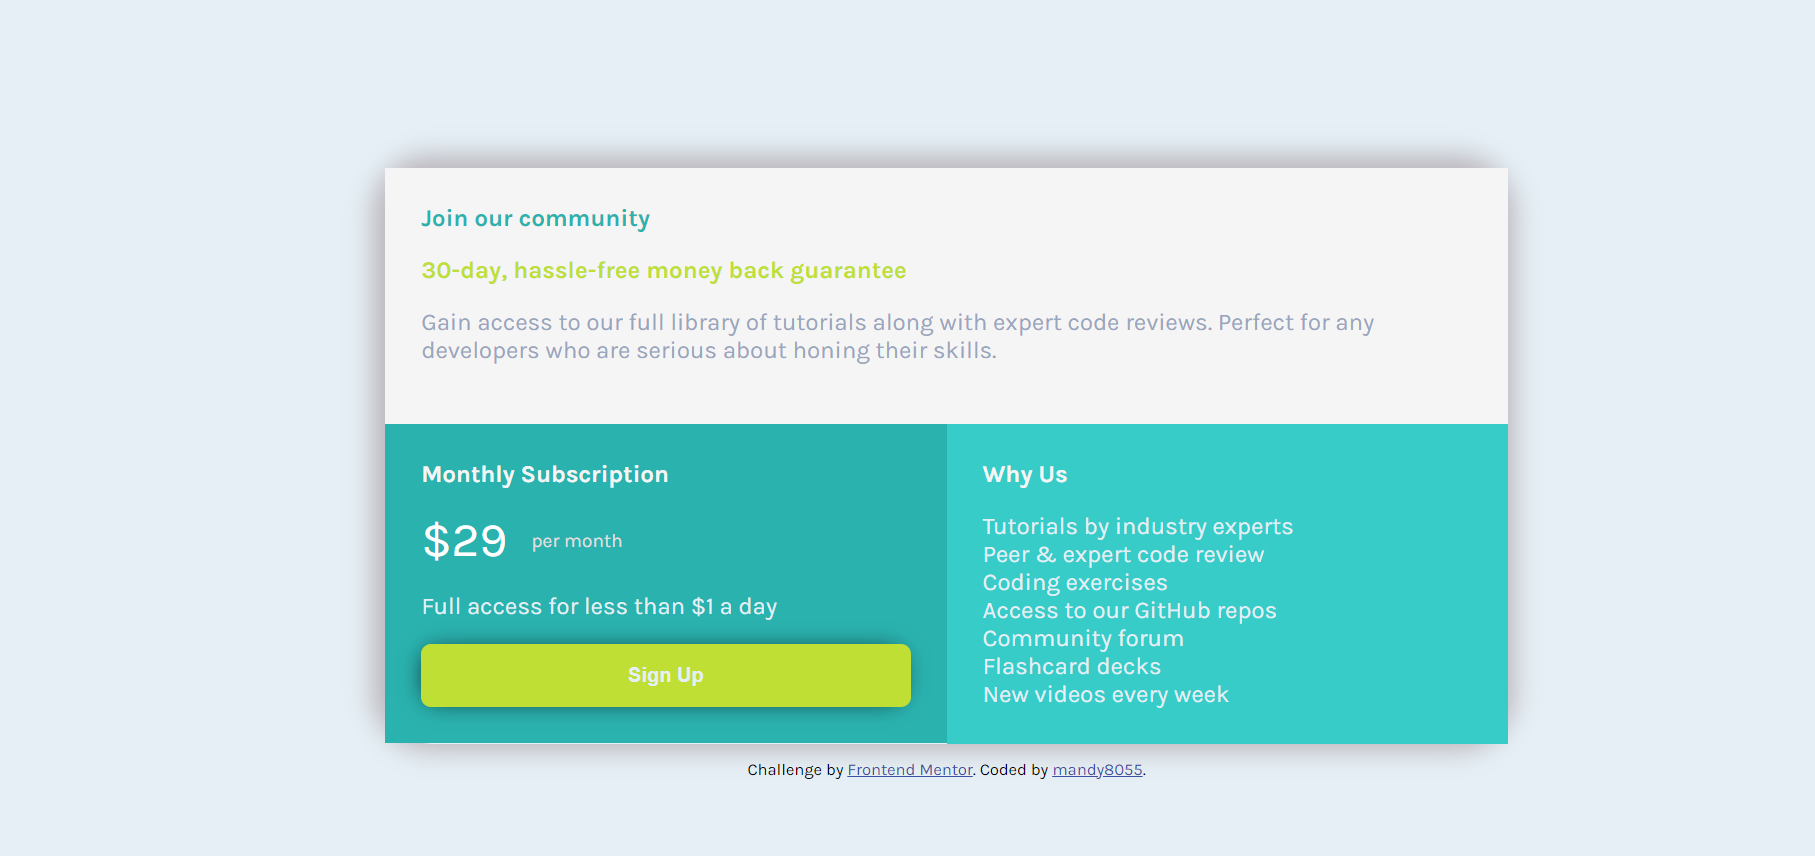
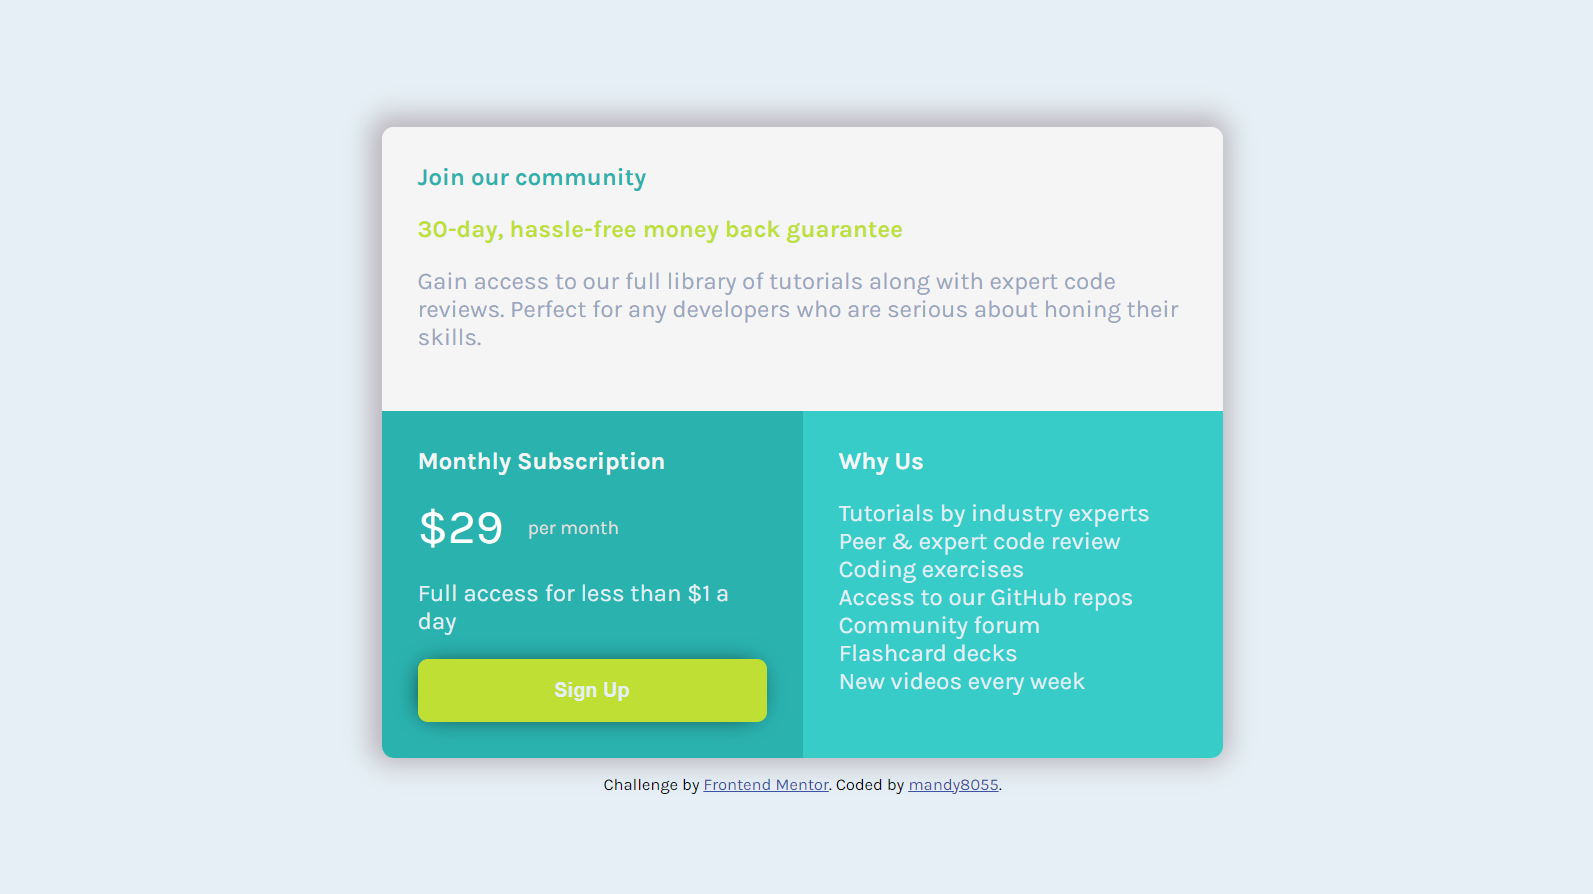
[Challenge-2] Fixed some css bugs

Changed region(s): [[0.1846, 0.1215, 0.8613, 0.9112]]

diff --git a/single-price-grid-component/public/output.css b/single-price-grid-component/public/output.css
@@ -1,1 +1,1 @@
-@import"https://fonts.googleapis.com/css2?family=Karla:wght@400;700&display=swap";*,*::before,*::after{box-sizing:border-box}body{background-color:#e5eff5;font-family:"Karla",sans-serif;height:100vh;display:flex;justify-content:center;align-items:center;flex-direction:column}@media(max-width: 768px){body{height:auto}}.card{display:grid;justify-content:center;align-content:center;grid-template-columns:1fr 1fr;width:60%;border-radius:2em;-webkit-box-shadow:-2px -2px 17px 6px #bab4ba;-moz-box-shadow:-2px -2px 17px 6px #bab4ba;box-shadow:-2px -2px 17px 6px #bab4ba}@media(max-width: 768px){.card{grid-template-columns:1fr;width:80%}}.heading{color:#f5f5f5;font-weight:700;padding-bottom:1em}.pricing{display:flex;gap:1em}#grid-1{grid-column:1/span 2;background-color:#f5f5f5;padding:1.5em}@media(max-width: 768px){#grid-1{grid-column:1}}#grid-1 .heading{color:#2ab2af;padding-bottom:1em;font-weight:700}#grid-1 p{color:#98a6bd}#grid-1 .sub-heading{color:#c0df34;font-weight:700}#grid-2{background-color:#2ab2af;padding:1.5em;align-self:center}#grid-2 span:first-of-type{color:#fff;font-size:2rem}#grid-2 span:nth-of-type(2){color:#e1dfdf;font-size:.8rem;align-self:center}#grid-2 p{color:#e5eff5}button{padding:1em;width:100%;border-radius:.5em;border:none;cursor:pointer;color:#e5eff5;font-weight:bold;background-color:#c0df34;-webkit-box-shadow:-2px 0px 17px -6px #000;-moz-box-shadow:-2px 0px 17px -6px #000;box-shadow:-2px 0px 17px -6px #000}#grid-3{background-color:#38ccc9;padding:1.5em}ul{margin:0;padding:0;list-style:none;color:#e5eff5}/*# sourceMappingURL=output.css.map */
+@import"https://fonts.googleapis.com/css2?family=Karla:wght@400;700&display=swap";*,*::before,*::after{box-sizing:border-box}body{background-color:#e5eff5;font-family:"Karla",sans-serif;height:100vh;display:flex;justify-content:center;align-items:center;flex-direction:column}@media(max-width: 768px){body{height:auto}}.card{display:grid;width:45%;border-radius:.5em;grid-template-columns:1fr 1fr;-webkit-box-shadow:-2px -2px 17px 6px #bab4ba;-moz-box-shadow:-2px -2px 17px 6px #bab4ba;box-shadow:-2px -2px 17px 6px #bab4ba}@media(max-width: 768px){.card{grid-template-columns:1fr;width:80%}}.heading{color:#f5f5f5;font-weight:700;padding-bottom:1em}.pricing{display:flex;gap:1em}#grid-1{grid-column:1/span 2;background-color:#f5f5f5;padding:1.5em;border-radius:.5em .5em 0 0}@media(max-width: 768px){#grid-1{grid-column:1}}#grid-1 .heading{color:#2ab2af;padding-bottom:1em;font-weight:700}#grid-1 p{color:#98a6bd}#grid-1 .sub-heading{color:#c0df34;font-weight:700}#grid-2{background-color:#2ab2af;padding:1.5em;border-radius:0 0 0 .5em}#grid-3{border-radius:0 0 .5em 0}#grid-2 span:first-of-type{color:#fff;font-size:2rem}#grid-2 span:nth-of-type(2){color:#e1dfdf;font-size:.8rem;align-self:center}#grid-2 p{color:#e5eff5}button{padding:1em;width:100%;border-radius:.5em;border:none;cursor:pointer;color:#e5eff5;font-weight:bold;background-color:#c0df34;-webkit-box-shadow:-2px 0px 17px -6px #000;-moz-box-shadow:-2px 0px 17px -6px #000;box-shadow:-2px 0px 17px -6px #000}#grid-3{background-color:#38ccc9;padding:1.5em}ul{margin:0;padding:0;list-style:none;color:#e5eff5}/*# sourceMappingURL=output.css.map */

diff --git a/single-price-grid-component/scss/styles.scss b/single-price-grid-component/scss/styles.scss
@@ -23,11 +23,9 @@ body {
 
 .card {
   display: grid;
-  justify-content: center;
-  align-content: center;
+  width: 45%;
+  border-radius: 0.5em;
   grid-template-columns: 1fr 1fr;
-  width: 60%;
-  border-radius: 2em;
   -webkit-box-shadow: -2px -2px 17px 6px rgba(186, 180, 186, 1);
   -moz-box-shadow: -2px -2px 17px 6px rgba(186, 180, 186, 1);
   box-shadow: -2px -2px 17px 6px rgba(186, 180, 186, 1);
@@ -52,6 +50,7 @@ body {
   grid-column: 1 / span 2;
   background-color: whitesmoke;
   padding: 1.5em;
+  border-radius: 0.5em 0.5em 0 0;
   @media (max-width: 768px) {
     grid-column: 1;
   }
@@ -75,7 +74,10 @@ body {
 #grid-2 {
   background-color: map-get($primary-colors, cyan-color);
   padding: 1.5em;
-  align-self: center;
+  border-radius: 0 0 0 0.5em;
+}
+#grid-3 {
+  border-radius: 0 0 0.5em 0;
 }
 
 #grid-2 span:first-of-type {
